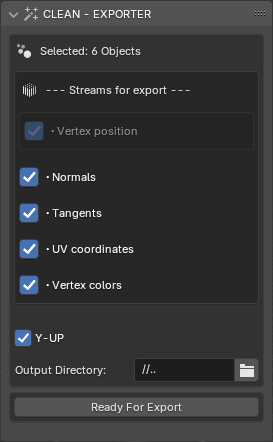
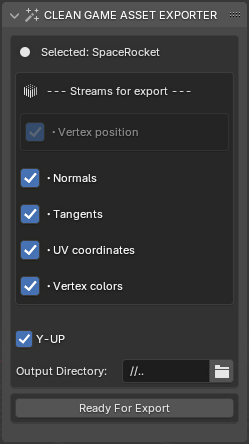
Extension platform review changes
Changes have been made according to review for submission to the blender extension platform.

- Name and id change to reflect a better description of what the add-on does.

- Various changes have been made to reflect a better description and discoverability, screen shots, artwork renders, icons and more have also been revised.

- update to the readme is more clear on the functionality and goals of the add-on.

diff --git a/README.md b/README.md
@@ -1,6 +1,9 @@
 ![](/docs/Clean_thumb.png)
 
-Blender add-on for exporting mesh (.buffer) files for use in the Defold game engines mesh components. Options allow the user to choose what attribute streams they wish to export, keeping their game asset files lean.
+Blender add-on for exporting game asset files for use in the Defold game engine - mesh components. Options allow the user to choose what attribute streams they wish to export, keeping their game asset files lean.
+
+### Roadmap:
+The current goal of this add-on is to streamline game ready assets from blender to defold game projects and give the game developer the options to export  what data they need. The future intention is to make the asset pipeline even more optimized by making less manual work like creating and adding the .buffer files to .mesh files. Instead options to do these things should make the process easier for small and large game development projects alike. The add-on should evolve with the requirements needed by the defold game engine.
 
 How to install:
 
@@ -24,7 +27,7 @@ Next select one or more mesh objects for export. Note: each selected mesh object
 
 ∙ Normals stream
 
-∙ UV coordinates - exports as named in blender ( Properties > Data > UV Maps ). In Defold built-ins shader's use “texcoord0” as UV attribute name.
+∙ UV coordinates - exports as named in blender ( Properties > Data > UV Maps ). Note: In Defold built-ins shader's use “texcoord0” as UV attribute name.
 
 ∙ Tangents stream
 
@@ -41,3 +44,9 @@ After exporting from blender you should now be ready to add the mesh .buffer fil
 ![](/docs/Defold_Mesh_component.png)
 
 ![](/docs/Defold_build.png)
+
+#### links :
+
+- [Blender extension platform:](https://extensions.blender.org)
+
+- [Defold game engine:](https://defold.com/)
